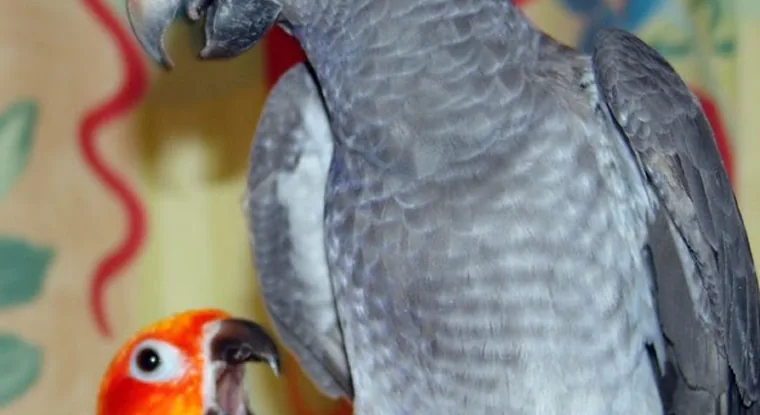
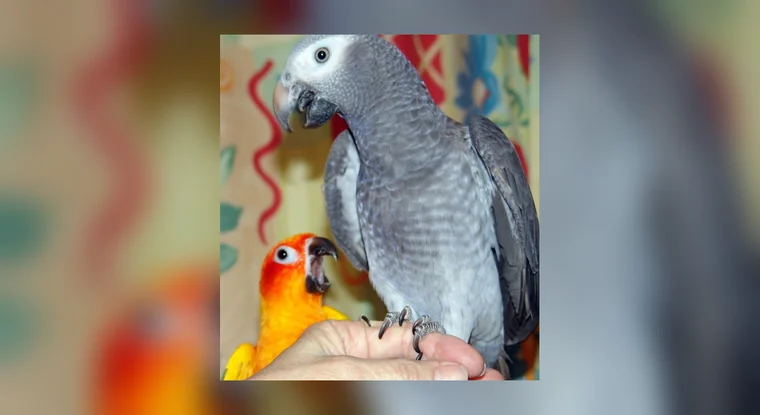
feat(images): Style B blur-fill reframe of Timneh OG photos (full bird, no head cutoff) + reframe_og.py engine + named framing styles in IMAGE-DESIGNS §7; add research-recency skill
- on-hand-playful + siblings reframed from masters via blur-fill (heads restored, both breakpoints)
- scripts/reframe_og.py: blurfill/contain/topcover styles, keeps subject full-height
- IMAGE-DESIGNS.md §7: Style A/B/C/D/E/H + mobile mA/mB/mC/mG/mH, breeder-approved set
- research-recency skill: fetch ladder + /last30days plugin routing for Reddit/blocked/recent

diff --git a/scripts/reframe_og.py b/scripts/reframe_og.py
@@ -1,0 +1,89 @@
+#!/usr/bin/env python3
+"""
+reframe_og.py — bake a named OG framing style into a 16:9 (or any-aspect) on-page image
+so the FULL bird always shows, no cover-crop head cutoffs. Engine behind the named
+Styles in IMAGE-DESIGNS.md §7.
+
+Styles:
+  blurfill  (Style B / mC) — sharp CONTAINed subject centered over a blurred COVER copy of
+                             itself. Full subject, no empty bars. Default for single birds.
+  contain   (Style A / mB) — sharp CONTAINed subject over a warm cream->beige gradient.
+                             Full subject, soft side padding.
+  topcover  (Style E / mA / mH) — COVER fill anchored to the TOP so the head is never cut
+                             (lower body/feet may crop). Punchy.
+
+Usage:
+  python3 scripts/reframe_og.py <src> <out> [--style blurfill] [--w 1408] [--h 768] \
+        [--blur 30] [--sib <out-760>] [--sibw 760] [--sibh 415] [--maxkb 95]
+The subject is centered full-HEIGHT, so any later COVER crop to a taller mobile aspect
+(4:5, 1:1) keeps the whole bird (only blurred/padded sides crop away).
+"""
+import sys, argparse, io
+from PIL import Image, ImageOps, ImageFilter, ImageEnhance
+
+def load(p): return Image.open(p).convert("RGB")
+
+def blurfill(im, W, H, blur):
+    bg = ImageOps.fit(im, (W, H), Image.LANCZOS)               # cover
+    bg = bg.filter(ImageFilter.GaussianBlur(blur))
+    bg = ImageEnhance.Brightness(bg).enhance(0.92)             # settle it behind the subject
+    fg = im.copy(); fg.thumbnail((W, H), Image.LANCZOS)        # contain, full height
+    canvas = bg.copy()
+    canvas.paste(fg, ((W - fg.width) // 2, (H - fg.height) // 2))
+    return canvas
+
+def gradient(W, H):
+    # warm cream -> beige diagonal, echoing the page surface
+    top = (250, 247, 244); bot = (243, 227, 216)
+    g = Image.new("RGB", (W, H))
+    px = g.load()
+    for y in range(H):
+        t = y / (H - 1)
+        r = int(top[0] + (bot[0]-top[0]) * t)
+        gg = int(top[1] + (bot[1]-top[1]) * t)
+        b = int(top[2] + (bot[2]-top[2]) * t)
+        for x in range(W): px[x, y] = (r, gg, b)
+    return g
+
+def contain(im, W, H):
+    canvas = gradient(W, H)
+    fg = im.copy(); pad = 0.90
+    fg.thumbnail((int(W*pad), int(H*pad)), Image.LANCZOS)
+    canvas.paste(fg, ((W - fg.width) // 2, (H - fg.height) // 2))
+    return canvas
+
+def topcover(im, W, H):
+    return ImageOps.fit(im, (W, H), Image.LANCZOS, centering=(0.5, 0.0))
+
+def save_webp(img, path, maxkb):
+    q = 86
+    while q >= 60:
+        buf = io.BytesIO(); img.save(buf, "WEBP", quality=q, method=6)
+        if buf.tell() / 1024 <= maxkb or q == 60:
+            with open(path, "wb") as f: f.write(buf.getvalue())
+            return round(buf.tell()/1024, 1), q
+        q -= 3
+
+def main():
+    ap = argparse.ArgumentParser()
+    ap.add_argument("src"); ap.add_argument("out")
+    ap.add_argument("--style", default="blurfill", choices=["blurfill","contain","topcover"])
+    ap.add_argument("--w", type=int, default=1408); ap.add_argument("--h", type=int, default=768)
+    ap.add_argument("--blur", type=int, default=30)
+    ap.add_argument("--sib", default=""); ap.add_argument("--sibw", type=int, default=760); ap.add_argument("--sibh", type=int, default=415)
+    ap.add_argument("--maxkb", type=int, default=95)
+    a = ap.parse_args()
+    im = load(a.src)
+    fn = {"blurfill": lambda: blurfill(im, a.w, a.h, a.blur),
+          "contain":  lambda: contain(im, a.w, a.h),
+          "topcover": lambda: topcover(im, a.w, a.h)}[a.style]
+    out = fn()
+    kb, q = save_webp(out, a.out, a.maxkb)
+    print(f"  {a.out}  {a.w}x{a.h}  {kb}KB q{q}  [{a.style}]")
+    if a.sib:
+        sib = ImageOps.fit(out, (a.sibw, a.sibh), Image.LANCZOS)
+        kb2, q2 = save_webp(sib, a.sib, 55)
+        print(f"  {a.sib}  {a.sibw}x{a.sibh}  {kb2}KB q{q2}")
+
+if __name__ == "__main__":
+    main()

diff --git a/IMAGE-DESIGNS.md b/IMAGE-DESIGNS.md
@@ -113,6 +113,42 @@ Every generated image flows through the same pipeline:
 
 ---
 
+## 7. Named OG Framing Styles (LOCKED 2026-07-22 — breeder-approved)
+
+**The head-cutoff rule (binding):** NEVER cover-crop a portrait/near-square bird master into a wide
+box with a focal point (`ImageOps.fit(..., centering=...)`). On tall masters (e.g. 591×640, 768×1376)
+that slices the head off — this is exactly what happened to the Timneh for-sale OG photos. Instead,
+pick a **named style** below and bake it into the file with `scripts/reframe_og.py`. Say *"use Style B
+on this image"* and the recipe is unambiguous.
+
+Engine: **`scripts/reframe_og.py <src-master> <out.webp> --style <s> [--sib <out-760.webp>]`**
+(outputs a 16:9 1408×768 file that keeps the FULL subject, plus an optional `-760` sibling <55 KB).
+Every style centers the subject **full-height**, so any later mobile COVER crop (5:4 / 4:5 / 1:1)
+keeps the whole bird — only padded/blurred sides crop away. No per-image markup change needed:
+just replace the file.
+
+| Style | Name | `--style` | When to use | Full bird? |
+|---|---|---|---|---|
+| **A** | Contain · Warm Canvas | `contain` | infographic-like / wide shots, or when blur reads busy | ✅ full |
+| **B** | Blur-Fill 16:9 *(default single bird)* | `blurfill` | any single-bird portrait OG photo — premium, no bars | ✅ full |
+| **C** | Editorial Split | (CSS component) | "meet the bird" hero-adjacent moments (photo + green caption panel) | ✅ full |
+| **D** | Portrait Frame | (CSS component) | boutique matted 3:4 inside the 16:9 | ✅ full |
+| **E** | Top-Anchored Cover | `topcover` | when you want a photo to FILL punchy; head never cut, feet may crop | ⚠ head-safe |
+| **H** | Duo Strip | (CSS: 2× `.h-im`) | Elad + Evie sibling / pair shots, two portraits side-by-side | ✅ full |
+
+**Mobile counterparts** (full-bleed, taller aspect): **mA** 4:5 top-cover · **mB** 4:5 contain ·
+**mC** 4:5 blur-fill *(matches B)* · **mG** stacked two-up · **mH** 3:4 top-cover. A blur-fill (B)
+file already prevents head cutoffs on mobile under the current 5:4 crop; for a *distinct taller*
+mobile frame, set the page's mobile `.og-photo{aspect-ratio:4/5}` **only once every OG photo on that
+page is a blur-fill/contain file** (otherwise the portrait crop re-cuts un-reframed photos).
+
+**Defaults:** single-bird OG photo → **B**; wide/infographic-like → **A**; pair/sibling → **H** (or B
+if it's one photo of both birds); punchy fill → **E**. Applied to the Timneh page 2026-07-22:
+on-hand-playful + siblings reframed via **B** from their masters in
+`assets/1WORKING-ON/FOR-SALE-PAGES/TIMNEHS-FOR-SALE/`. (Any OG photo whose only file is already a
+cover-cropped 16:9 with the head gone CANNOT be recovered by reframing — it needs the original
+master or a photo swap.)
+
 *Consumed by:* `skills/image-prompt-generator.md`, `skills/cag-image-generation.md`,
 `skills/cag-photo-ingest.md`, `skills/cag-infographic.md`, `.claude/agents/cag-image-pipeline.md`,
 `.claude/agents/cag-infographic-builder.md`. **On conflict, THIS file wins — fix the consumer.**

diff --git a/.claude/skills/research-recency/SKILL.md b/.claude/skills/research-recency/SKILL.md
@@ -1,0 +1,36 @@
+---
+name: research-recency
+description: Use when a CAG research task needs recent (last-30-days) or engagement-ranked signal, or when a source blocks the normal fetchers — Reddit/X thread mining, competitor or SERP freshness checks, "what are people saying now" questions, or Firecrawl/curl returning 403/429/bot-walls.
+---
+
+# Research Recency & Blocked-Source Fallback
+
+## Overview
+CAG research (competitor intel, PAA/SERP, reddit-strategy, keyword gaps) often needs **recent, real, engagement-ranked** signal that stale search results and blocked fetchers miss. This skill routes that need through a fixed escalation ladder and the `last30days` tool, so agents stop reporting "not fetchable" and never fabricate thread content.
+
+## When to use
+- A source blocks us: Reddit, X/Twitter, Facebook, or a competitor page returns 403/429 or a bot-check wall to Firecrawl/curl.
+- The question is recency-shaped: "what are owners saying now", trending Timneh/Congo queries, a competitor's just-changed page, fresh scam patterns.
+- Reddit thread mining for the comparison/for-sale clusters (r/parrots ranks pos-1 on our decision queries).
+
+**Not for:** evergreen facts already in our data files, or anything the Verified-Claim Ledger governs (never source health/credential claims from social).
+
+## Quick reference — fetch escalation ladder
+1. **Firecrawl MCP** (`firecrawl_search`/`firecrawl_scrape`) — default.
+2. **WebFetch/WebSearch** — retry a 403/429 once with a real browser UA (curl 403 ≠ dead).
+3. **Headless browser** — Playwright MCP (`browser_navigate`+`browser_snapshot`) or chrome-devtools MCP. Reddit/FB render here even when they block curl.
+4. **`/last30days [topic]`** — aggregates Reddit/X/YouTube/TikTok/HN/GitHub/web by real engagement, last-30-days scoped. Best for Reddit thread mining + "what's trending" + freshly-changed pages.
+
+Full doc: `docs/reference/research-blocked-sites.md`. Reddit ethics + cornerstoning: `skills/reddit-strategy.md`.
+
+## Installing `/last30days` (one-time, interactive session)
+It is a third-party Claude Code plugin, not installed by default. In an **interactive** `claude` session run:
+```
+/plugin marketplace add mvanhorn/last30days-skill
+```
+(Source: https://github.com/mvanhorn/last30days-skill.) Non-interactive/agent sessions cannot run `/plugin`; if a task needs it and it isn't installed, say so — do not silently skip and do not fabricate results.
+
+## Common mistakes
+- Reporting "NOT FETCHED" after only step 1. Climb the whole ladder first.
+- Inventing quotes/metrics when a source stays blocked. Un-fetchable = mark `NOT FETCHED`, never invented.
+- Sourcing a health/credential/pricing claim from social. Those come from data files + the Verified-Claim Ledger only.

diff --git a/skills/research-recency.md b/skills/research-recency.md
@@ -1,0 +1,36 @@
+---
+name: research-recency
+description: Use when a CAG research task needs recent (last-30-days) or engagement-ranked signal, or when a source blocks the normal fetchers — Reddit/X thread mining, competitor or SERP freshness checks, "what are people saying now" questions, or Firecrawl/curl returning 403/429/bot-walls.
+---
+
+# Research Recency & Blocked-Source Fallback
+
+## Overview
+CAG research (competitor intel, PAA/SERP, reddit-strategy, keyword gaps) often needs **recent, real, engagement-ranked** signal that stale search results and blocked fetchers miss. This skill routes that need through a fixed escalation ladder and the `last30days` tool, so agents stop reporting "not fetchable" and never fabricate thread content.
+
+## When to use
+- A source blocks us: Reddit, X/Twitter, Facebook, or a competitor page returns 403/429 or a bot-check wall to Firecrawl/curl.
+- The question is recency-shaped: "what are owners saying now", trending Timneh/Congo queries, a competitor's just-changed page, fresh scam patterns.
+- Reddit thread mining for the comparison/for-sale clusters (r/parrots ranks pos-1 on our decision queries).
+
+**Not for:** evergreen facts already in our data files, or anything the Verified-Claim Ledger governs (never source health/credential claims from social).
+
+## Quick reference — fetch escalation ladder
+1. **Firecrawl MCP** (`firecrawl_search`/`firecrawl_scrape`) — default.
+2. **WebFetch/WebSearch** — retry a 403/429 once with a real browser UA (curl 403 ≠ dead).
+3. **Headless browser** — Playwright MCP (`browser_navigate`+`browser_snapshot`) or chrome-devtools MCP. Reddit/FB render here even when they block curl.
+4. **`/last30days [topic]`** — aggregates Reddit/X/YouTube/TikTok/HN/GitHub/web by real engagement, last-30-days scoped. Best for Reddit thread mining + "what's trending" + freshly-changed pages.
+
+Full doc: `docs/reference/research-blocked-sites.md`. Reddit ethics + cornerstoning: `skills/reddit-strategy.md`.
+
+## Installing `/last30days` (one-time, interactive session)
+It is a third-party Claude Code plugin, not installed by default. In an **interactive** `claude` session run:
+```
+/plugin marketplace add mvanhorn/last30days-skill
+```
+(Source: https://github.com/mvanhorn/last30days-skill.) Non-interactive/agent sessions cannot run `/plugin`; if a task needs it and it isn't installed, say so — do not silently skip and do not fabricate results.
+
+## Common mistakes
+- Reporting "NOT FETCHED" after only step 1. Climb the whole ladder first.
+- Inventing quotes/metrics when a source stays blocked. Un-fetchable = mark `NOT FETCHED`, never invented.
+- Sourcing a health/credential/pricing claim from social. Those come from data files + the Verified-Claim Ledger only.
